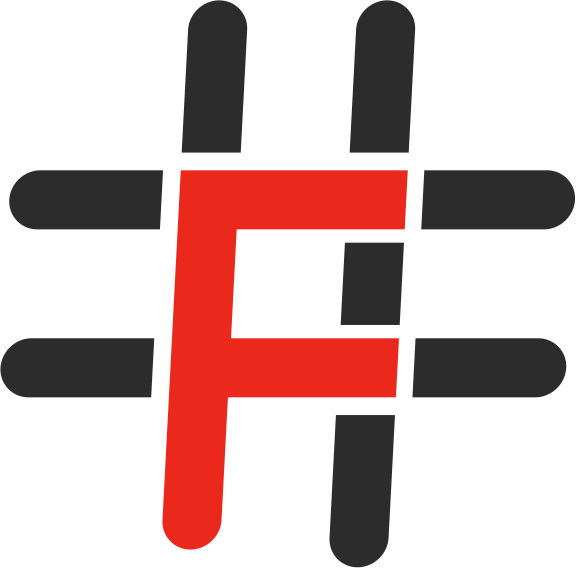
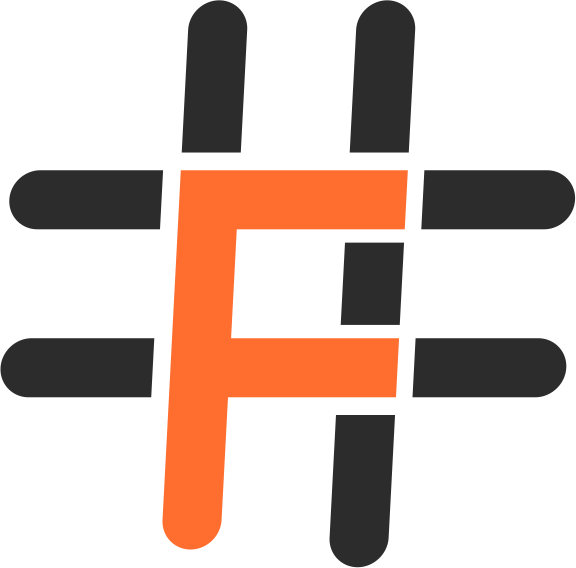
some changes

Changed region(s): [[0.2812, 0.2993, 0.7188, 0.9877]]

diff --git a/public/css/customCss.js b/public/css/customCss.js
@@ -1,16 +1,16 @@
 export const swaggerCustomUI = `
 :root {
-  --post-color: #8C1911;
-  --get-color: #EA291C;
+  --post-color: #CC5726;
+  --get-color: #FF8A59;
   --get_id-color: #FFCC00;
-  --put-color: #EE5449;
-  --delete-color: #2C2C2C;
-  --body-color: #FFEEE9;
-  --topbar-color : #FFDFDD;
-  --post-body-color : rgba(140, 25, 17, 0.1); 
-  --get-body-color : rgba(234, 41, 28, 0.2);
-  --put-body-color : rgba(238, 84, 73, 0.13);
-  --delete-body-color : rgba(44, 44, 44, 0.18);
+  --put-color: #FF6D2F;
+  --delete-color: #662C13;
+  --body-color: #FFF4F0;
+  --topbar-color : #FFE9DF;
+  --post-body-color : rgba(204, 87, 38, 0.1); 
+  --get-body-color : rgba(255, 138, 89, 0.2);
+  --put-body-color : rgba(255, 109, 47, 0.13);
+  --delete-body-color : rgba(102, 44, 19, 0.18);
 }
 body {
   background:  var(--body-color);

diff --git a/src/middlewares/user.js b/src/middlewares/user.js
@@ -1,0 +1,26 @@
+import { User } from "../models"
+import CustomErrorHandler from "../services/CustomErrorHandler"
+
+
+const user = async (req, res, next) => {
+    try {
+        //Get from the collection
+        const user = await User.findOne(
+            {
+                _id: req.user._id
+            }
+        )
+
+        //Check
+        if (user.role === 'user') {
+            next()
+        } else {
+            return next(CustomErrorHandler.unAuthorized())
+        }
+
+    } catch (error) {
+        return next(CustomErrorHandler.serverError())
+    }
+}
+
+export default user
